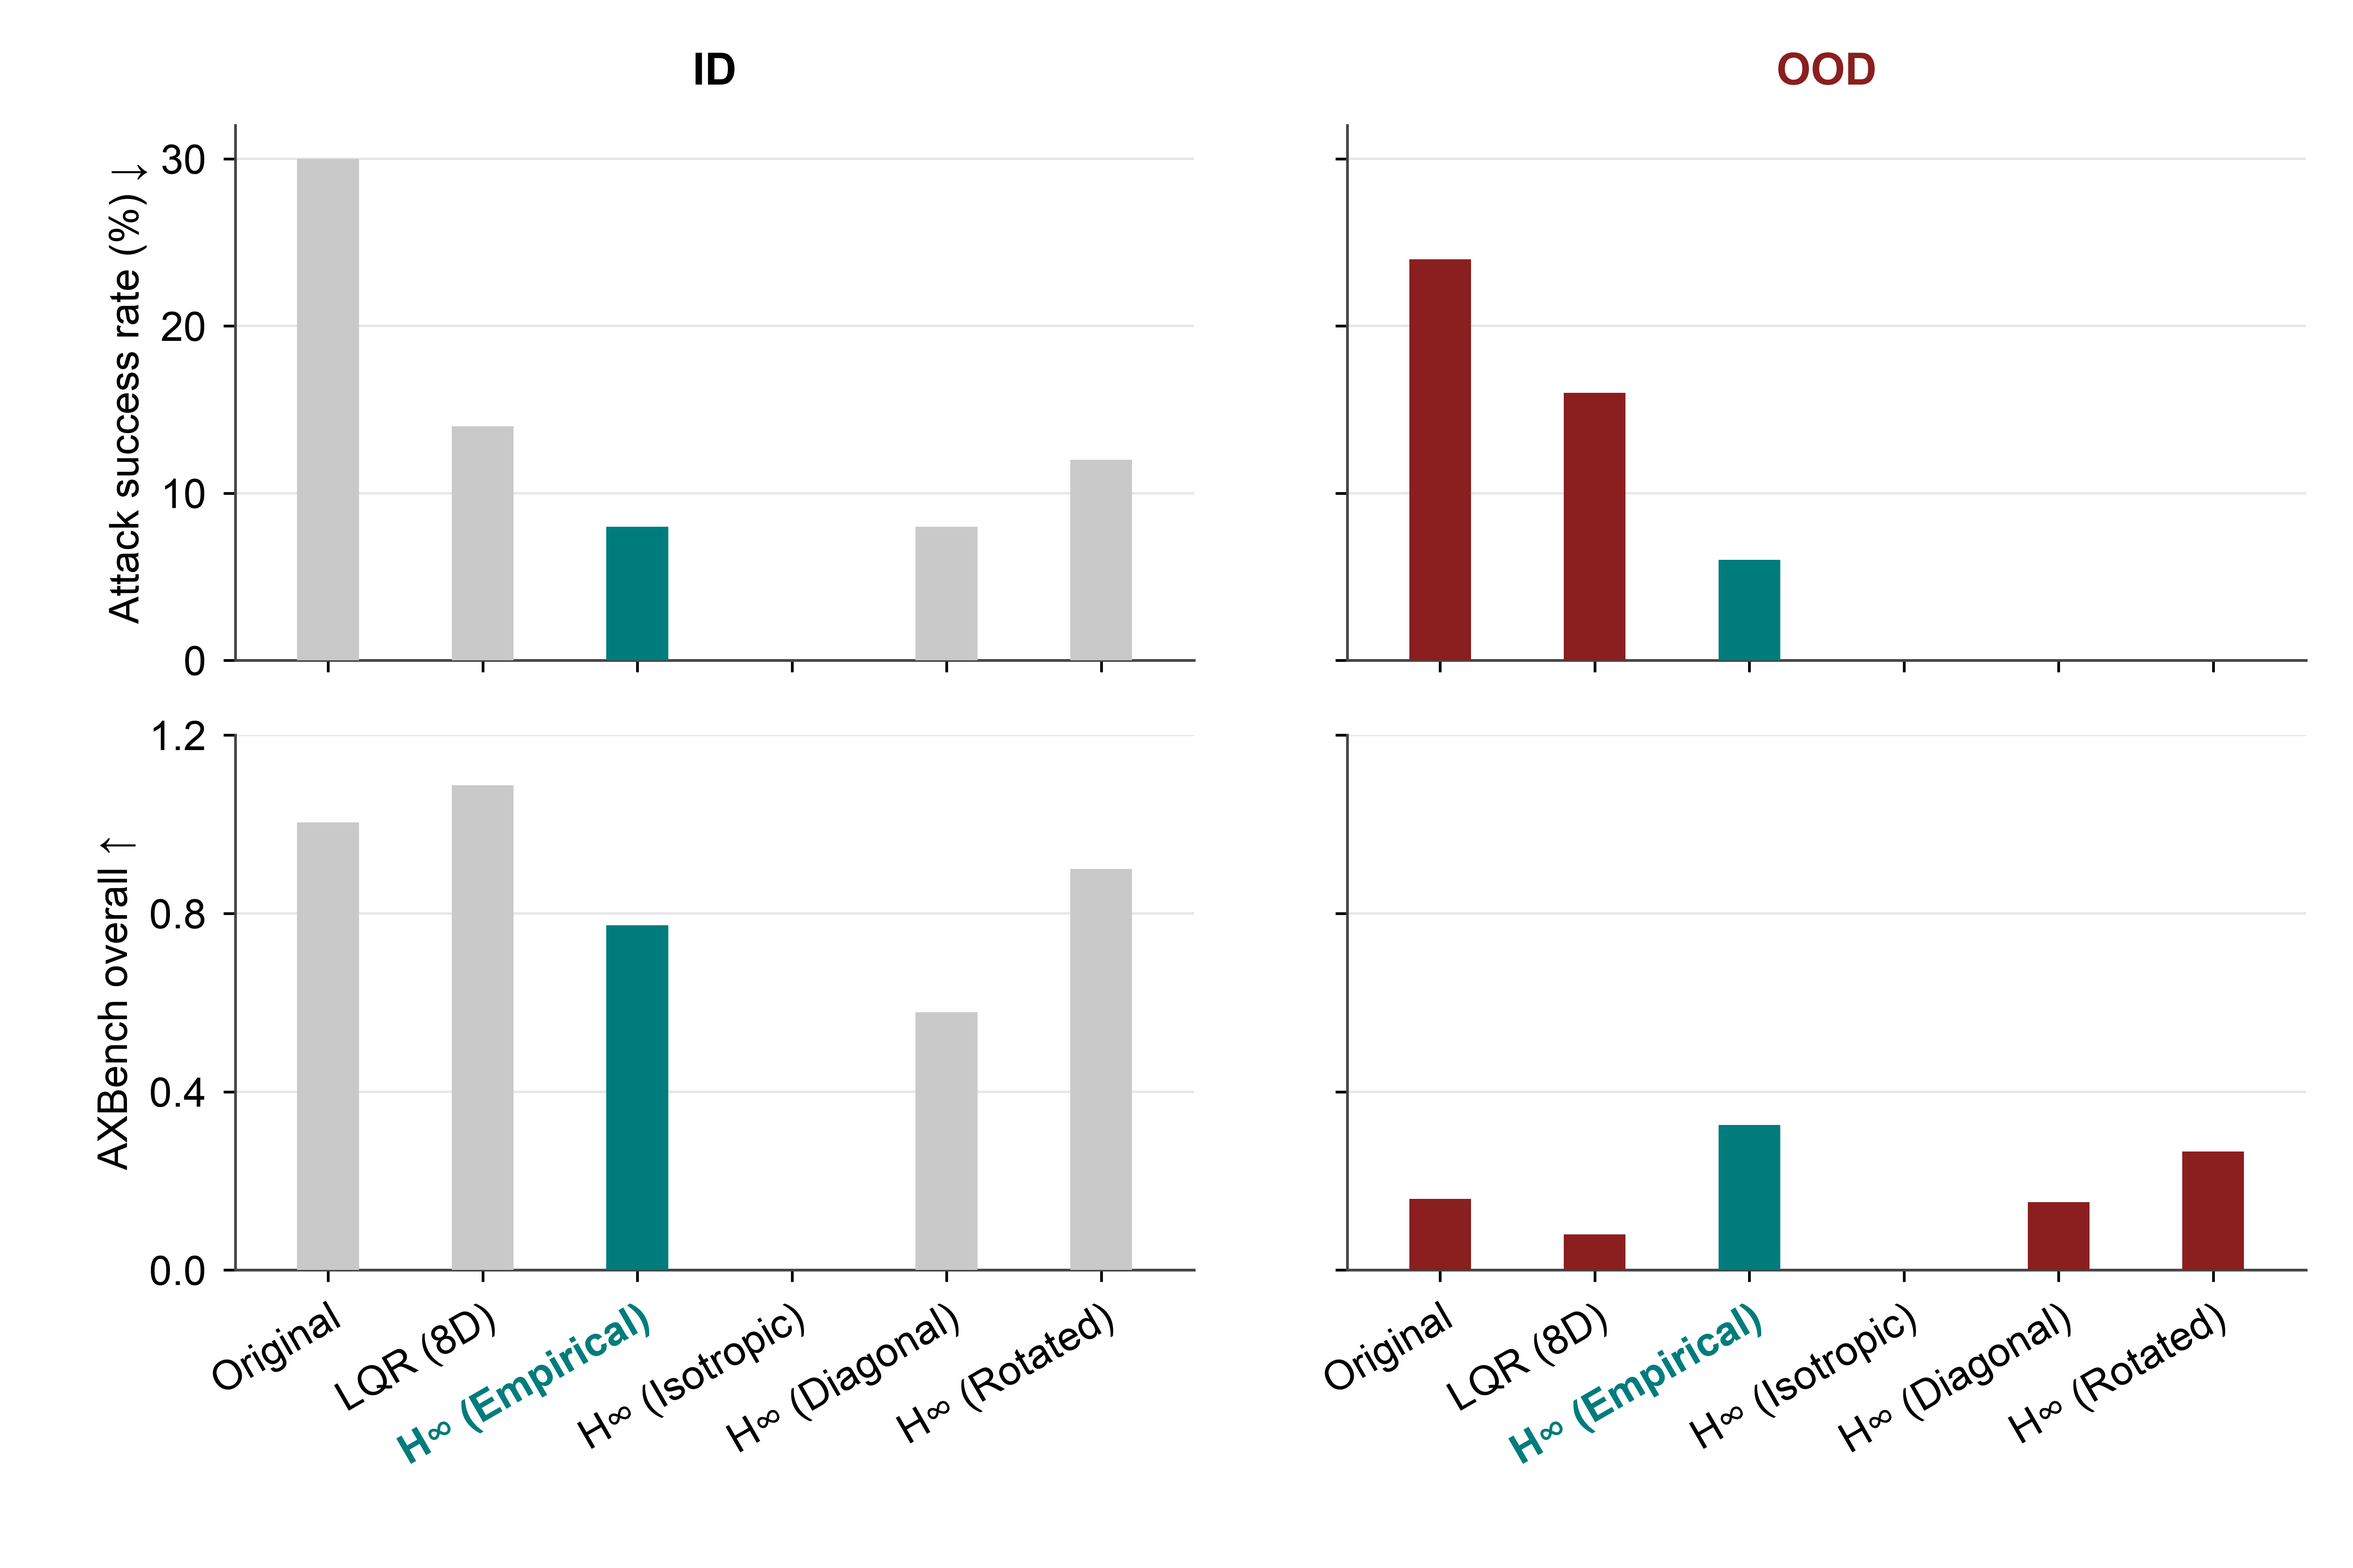
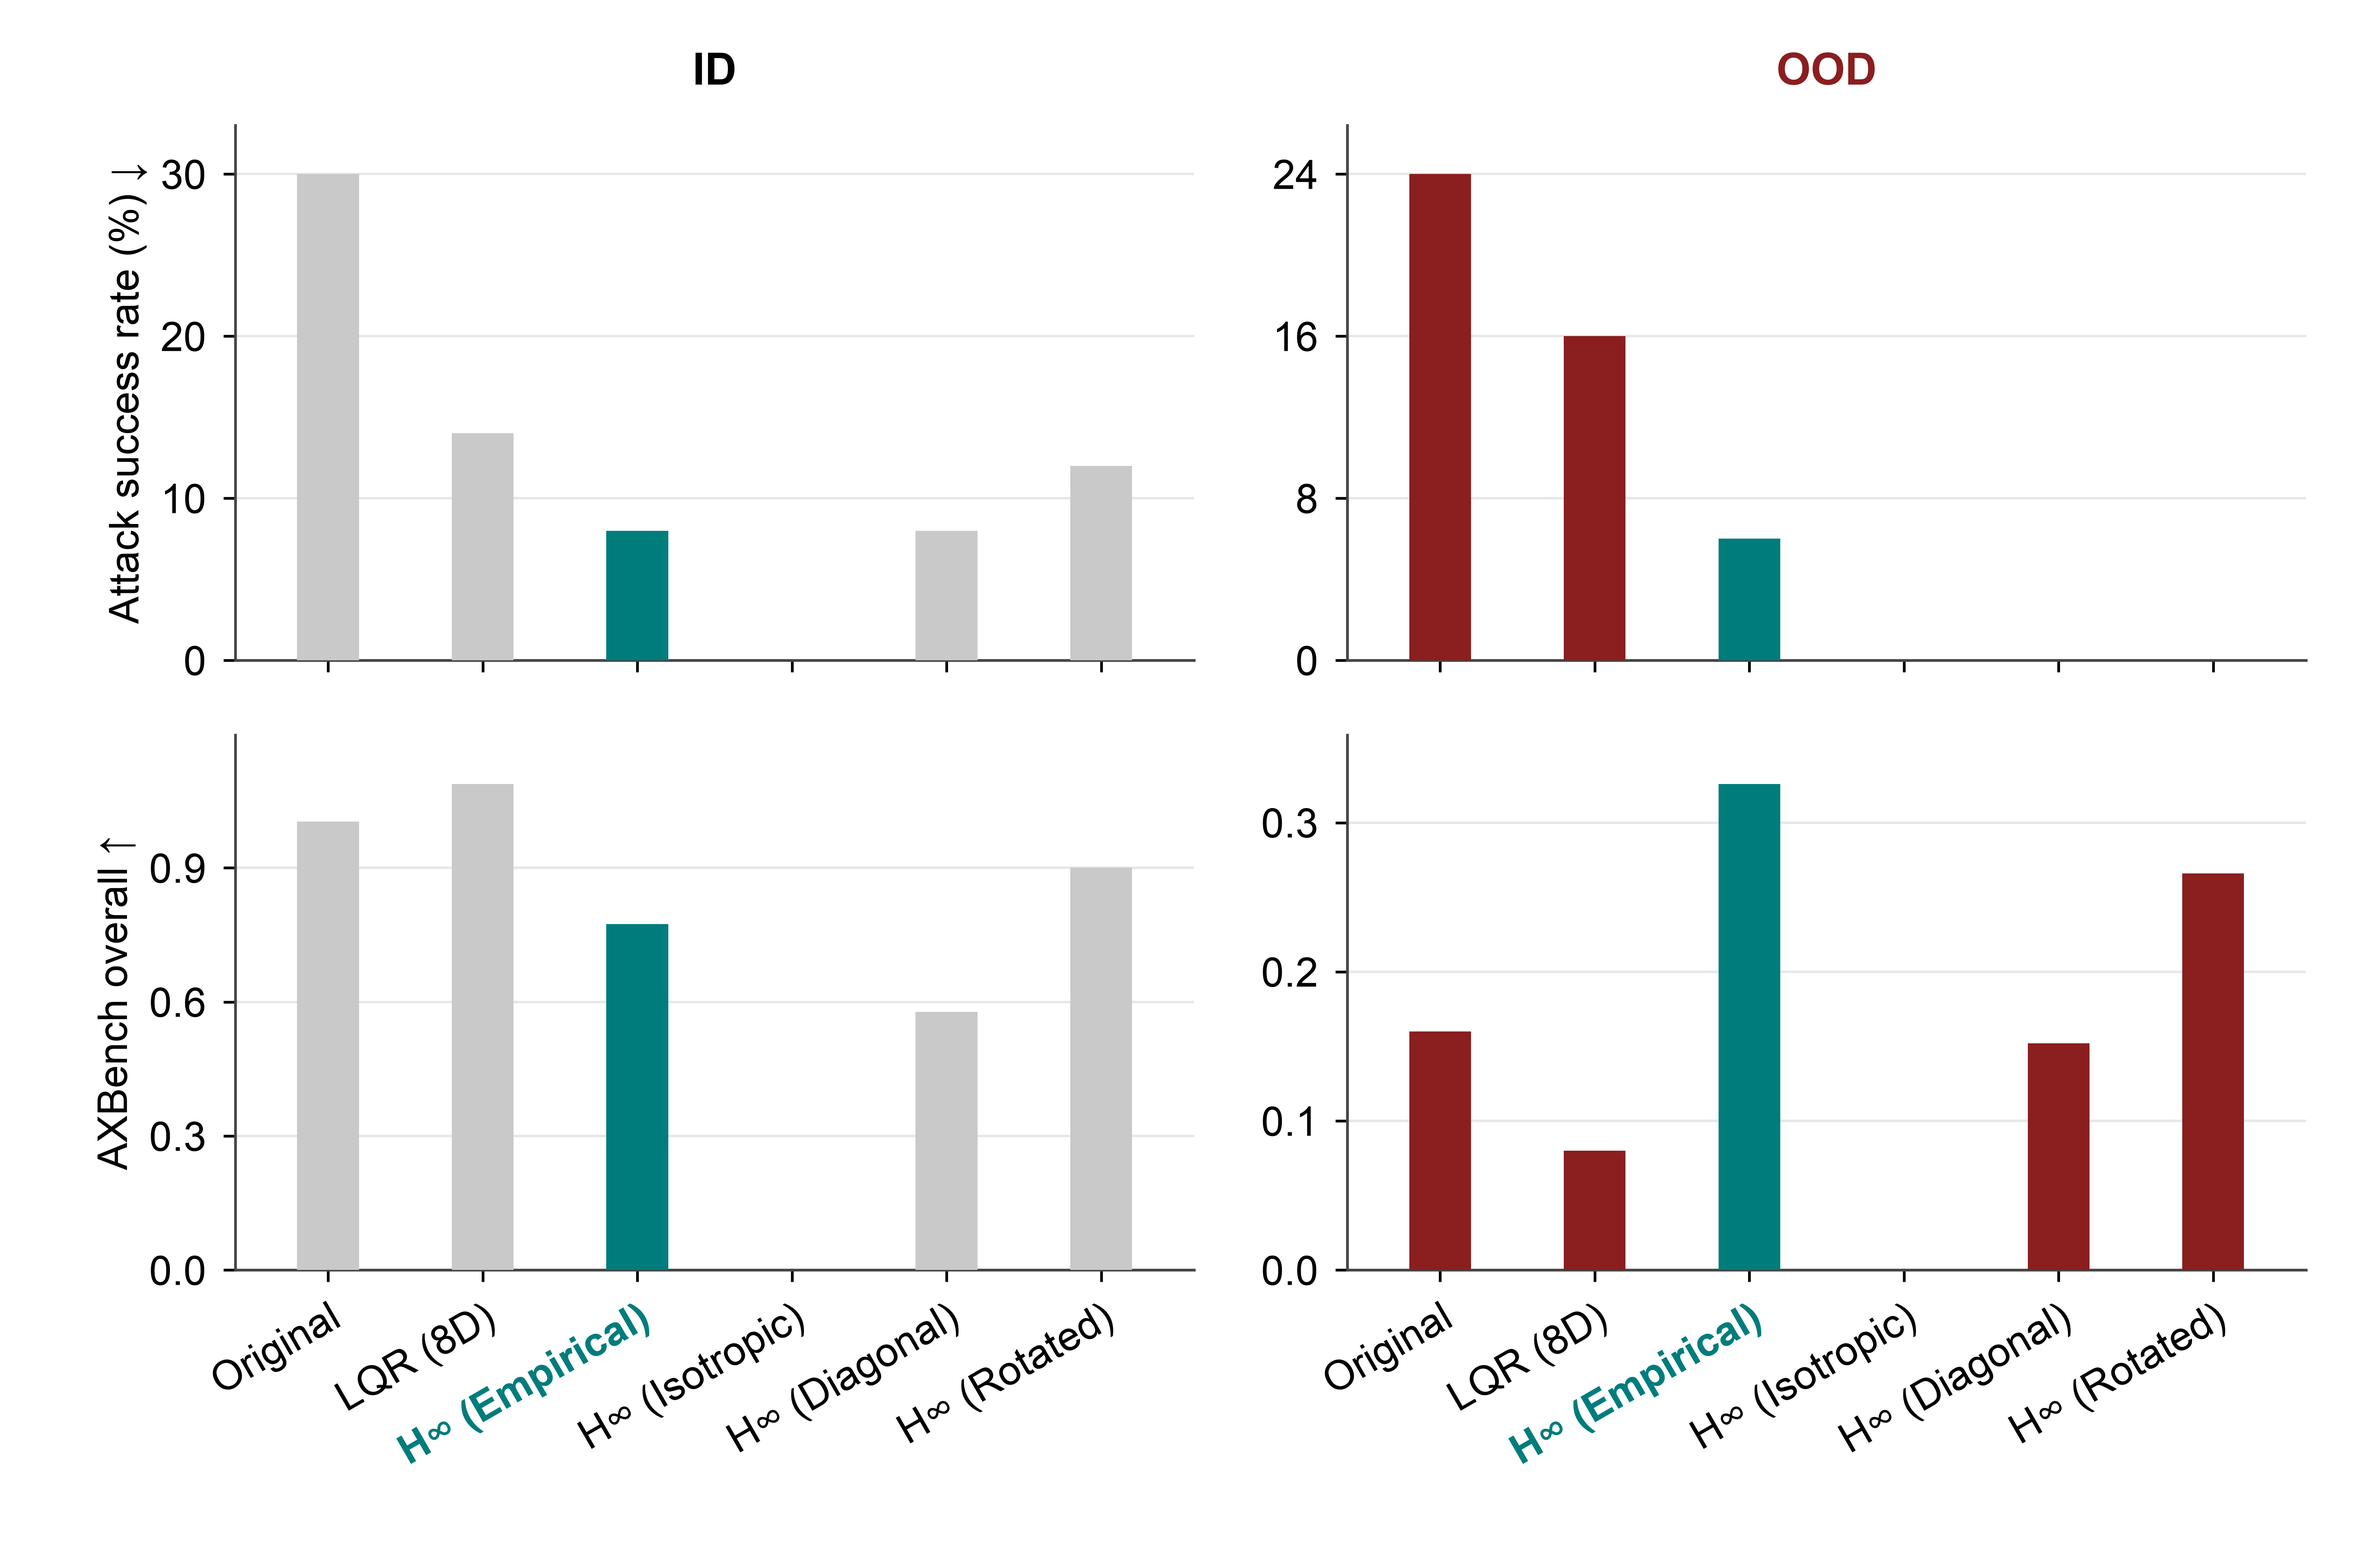
style: scale each geometry performance y-axis independently

diff --git a/parking/rudra_rebuttal_residual_geometry/performance_grid.py b/parking/rudra_rebuttal_residual_geometry/performance_grid.py
@@ -3,6 +3,7 @@
 import matplotlib
 matplotlib.use('Agg')
 import matplotlib.pyplot as plt
+from matplotlib.ticker import MaxNLocator
 import numpy as np
 
 from .pipeline import ROOT, UNIT, read
@@ -21,7 +22,7 @@ def report():
                          'xtick.labelsize': 12, 'ytick.labelsize': 12,
                          'axes.spines.top': False, 'axes.spines.right': False,
                          'axes.linewidth': .8, 'axes.edgecolor': '#454545', 'pdf.fonttype': 42}):
-        fig, axes = plt.subplots(2, 2, figsize=(9.6, 6.4), sharex='col', sharey='row')
+        fig, axes = plt.subplots(2, 2, figsize=(9.6, 6.4), sharex='col', sharey=False)
         for column, (condition, label, color) in enumerate(CONDITIONS):
             selected = [lookup[method, condition] for method in METHODS]
             for row, (metric, ylabel) in enumerate([
@@ -38,8 +39,8 @@ def report():
                 ax.tick_params(axis='both', direction='out', length=3.5, width=.8, pad=5)
                 ax.grid(axis='y', color='#e5e7eb', linewidth=.7)
                 ax.set_axisbelow(True)
-                ax.set_ylim(0, 32 if row == 0 else 1.2)
-                ax.set_yticks([0, 10, 20, 30] if row == 0 else [0, .4, .8, 1.2])
+                ax.set_ylim(0, max(r[metric] for r in selected) * 1.10)
+                ax.yaxis.set_major_locator(MaxNLocator(nbins=4, min_n_ticks=3, integer=row == 0))
                 if column == 0:
                     ax.set_ylabel(ylabel)
                 if row == 1:
